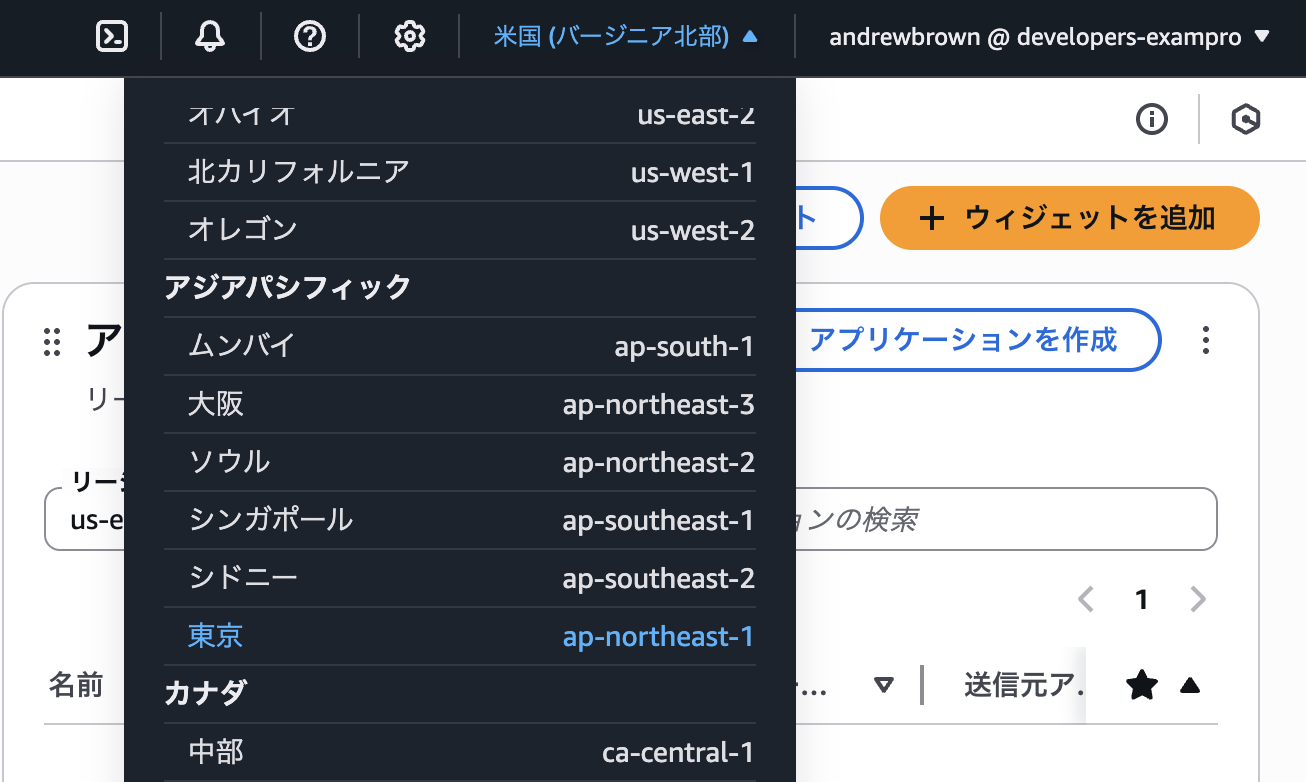
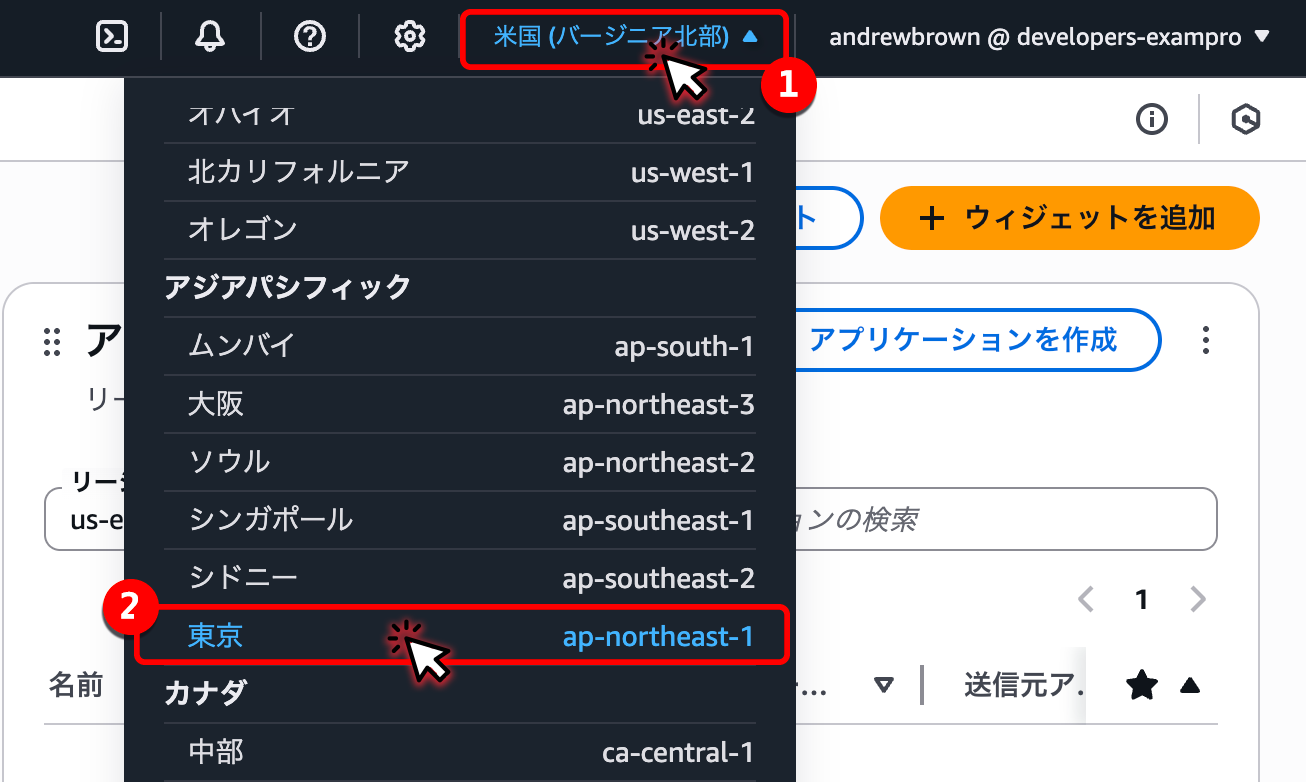
update

diff --git a/docs/010__setup.md b/docs/010__setup.md
@@ -4,11 +4,36 @@
 
 ### Enable All Amazon Bedrock Models
 
-Change your region your to `東京 ap-northeast-1`
+- Change your region your to `東京 ap-northeast-1`
 
-![](./assets/change_region.png)
+<img src="./assets/change_region.png" width="600px"></img>
 
-1. [Enable All Amazon Bedrock Models](https://ap-northeast-1.console.aws.amazon.com/bedrock/home?region=ap-northeast-1#/modelaccess) in `ap-northeast-1`
+- In the search bar type `bedrock`
+- Click on Amazon Bedrock to go to this service.
+
+<img src="./assets/navigate_bedrock.png" width="600px"></img>
+
+- In the left hand column click on `モデルアクセス`
+
+<img src="./assets/find_model_access.png" width="600px"></img>
+
+- Click on `すべてのモデルを有効にする`
+
+<img src="./assets/start_model_access.png" width="600px"></img>
+
+- Click on `次へ`
+
+<img src="./assets/select_models.png" width="600px"></img>
+
+
+- Click on `送信`
+
+<img src="./assets/confirm_model.png" width="600px"></img>
+
+- See that the models `Nova Pro`, `Nova Canvas` are enabled
+
+<img src="./assets/see_models.png" width="600px"></img>
+
 
 ### Generate AWS Credentials to use in Github Codespaces Developer Environment
 
